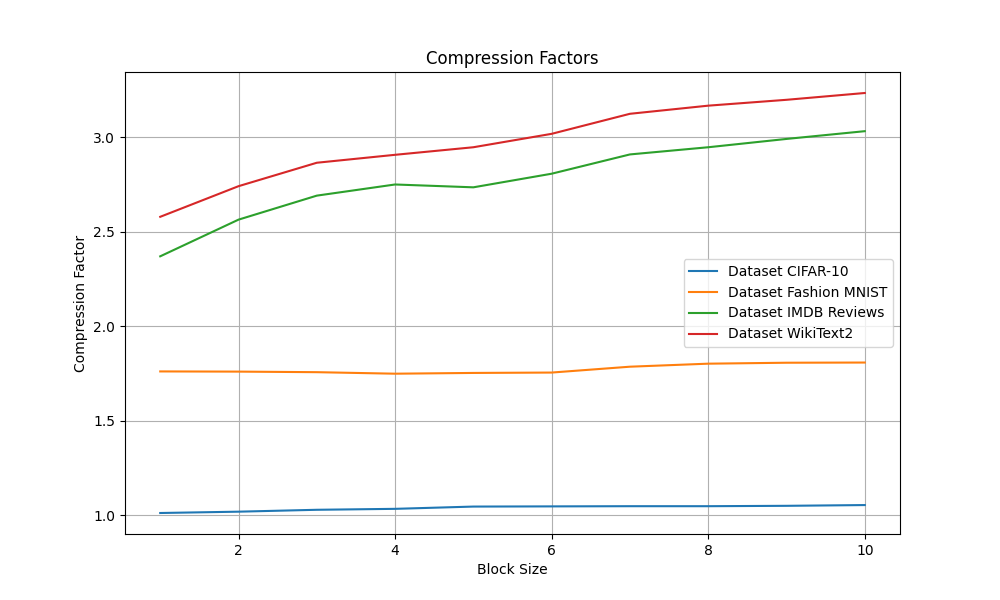
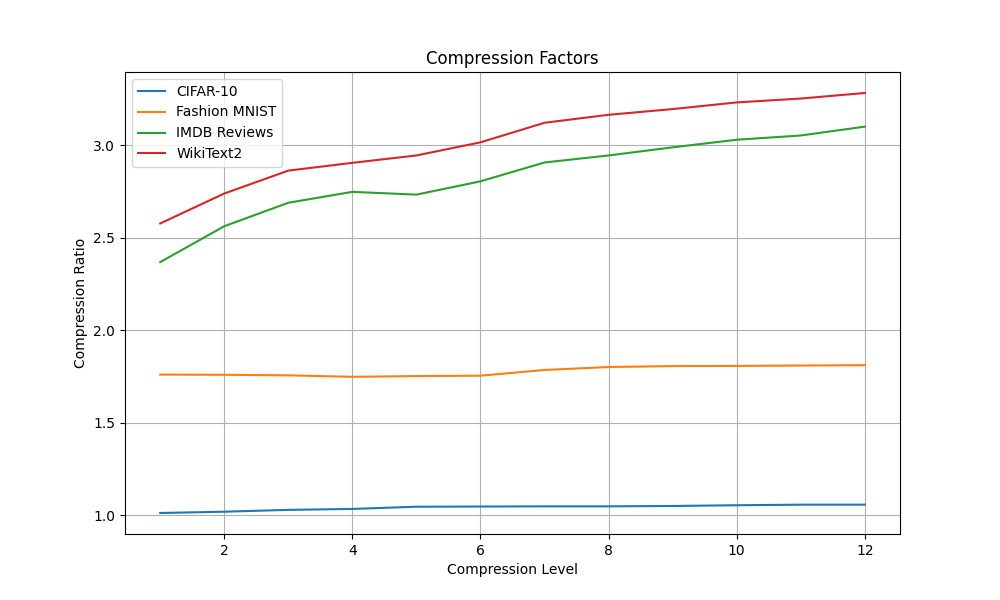
Added all basic benchmarking files for Zstd project

diff --git a/Zstandard/lz4_benchmark.py b/Zstandard/lz4_benchmark.py
@@ -1,0 +1,142 @@
+import subprocess
+import matplotlib.pyplot as plt
+import numpy as np
+import os
+import time
+
+def get_lz4_speed(file, level, mode):
+    """
+    Measure the compression or decompression speed of lz4.
+    Args:
+        file (str): File to compress or decompress.
+        level (int): Compression level (1-9 for simplicity; lz4 uses different presets).
+        mode (str): 'compress' or 'decompress'.
+
+    Returns:
+        float: Speed in MB/s.
+    """
+    start_time = time.time()
+    if mode == "compress":
+        compressed_file = file + ".lz4"
+        cmd = f"lz4 -{level} -f {file} {compressed_file}"  # Added '-f' for force overwrite
+    elif mode == "decompress":
+        compressed_file = file + ".lz4"
+        decompressed_file = file + ".out"
+        cmd = f"lz4 -d -f {compressed_file} {decompressed_file}"  # Added '-f' for force overwrite
+    else:
+        raise ValueError("Invalid mode")
+
+    # Run the command
+    subprocess.run(cmd, shell=True, check=True)
+
+    # Calculate elapsed time
+    elapsed_time = time.time() - start_time
+
+    # Determine file size
+    if mode == "compress":
+        file_size = os.path.getsize(file)
+    elif mode == "decompress":
+        file_size = os.path.getsize(compressed_file)
+
+    # Clean up temporary files
+    if mode == "decompress":
+        os.remove(decompressed_file)
+
+    # Return speed in MB/s
+    return file_size / (1024 ** 2) / elapsed_time
+
+def get_compression_factor(original_file, compressed_file):
+    """
+    Calculate compression factor (original size / compressed size).
+    Args:
+        original_file (str): Original file path.
+        compressed_file (str): Compressed file path.
+
+    Returns:
+        float: Compression factor.
+    """
+    original_size = os.path.getsize(original_file)
+    compressed_size = os.path.getsize(compressed_file)
+    return original_size / compressed_size
+
+# Define directories and test files
+cifar_dir = "ml_data/cifar10_train.bin"
+fashion_dir = "ml_data/fashion_mnist_train.bin"
+imdb_dir = "ml_data/imdb_raw.txt"
+wikitext_dir = "ml_data/wikitext2_raw.txt"
+
+dataSets = [cifar_dir, fashion_dir, imdb_dir, wikitext_dir]
+dataSetNames = ["CIFAR-10", "Fashion MNIST", "IMDB Reviews", "WikiText2"]
+
+num_tests = 6
+start_i = 1
+end_i = 9  # Simplified compression levels for lz4
+
+if __name__ == "__main__":
+    all_compFactors = []
+    all_compSpeed = []
+    all_decompSpeed = []
+
+    for dataSet in dataSets:
+        compFactors = np.zeros(end_i - start_i + 1)
+        compSpeed = np.zeros(end_i - start_i + 1)
+        decompSpeed = np.zeros(end_i - start_i + 1)
+
+        for level in range(start_i, end_i + 1):
+            for t in range(num_tests):
+                # Measure compression speed
+                comp_speed = get_lz4_speed(dataSet, level, "compress")
+                compSpeed[level - start_i] += comp_speed / num_tests
+
+                # Measure decompression speed
+                decomp_speed = get_lz4_speed(dataSet, level, "decompress")
+                decompSpeed[level - start_i] += decomp_speed / num_tests
+
+                # Measure compression factor
+                lz4_file = dataSet + ".lz4"
+                comp_factor = get_compression_factor(dataSet, lz4_file)
+                compFactors[level - start_i] += comp_factor / num_tests
+
+            # Clean up compressed file after all tests
+            os.remove(dataSet + ".lz4")
+
+        all_compFactors.append(compFactors)
+        all_compSpeed.append(compSpeed)
+        all_decompSpeed.append(decompSpeed)
+
+    x_range = range(start_i, end_i + 1)
+
+    # Compression Factors Graph
+    plt.figure(figsize=(10, 6))
+    for i, compFactors in enumerate(all_compFactors):
+        plt.plot(x_range, compFactors, label=dataSetNames[i])
+    plt.title("Compression Factors (lz4)")
+    plt.xlabel("Compression Level")
+    plt.ylabel("Compression Ratio")
+    plt.legend()
+    plt.grid(True)
+    plt.savefig("lz4_compression_factors.png")
+
+    # Compression Speed Graph
+    plt.figure(figsize=(10, 6))
+    for i, compSpeed in enumerate(all_compSpeed):
+        plt.plot(x_range, compSpeed, label=dataSetNames[i])
+    plt.title("Compression Speed (lz4)")
+    plt.xlabel("Compression Level")
+    plt.ylabel("Speed (MB/s)")
+    plt.legend()
+    plt.grid(True)
+    plt.savefig("lz4_compression_speed.png")
+
+    # Decompression Speed Graph
+    plt.figure(figsize=(10, 6))
+    for i, decompSpeed in enumerate(all_decompSpeed):
+        plt.plot(x_range, decompSpeed, label=dataSetNames[i])
+    plt.title("Decompression Speed (lz4)")
+    plt.xlabel("Compression Level")
+    plt.ylabel("Speed (MB/s)")
+    plt.legend()
+    plt.grid(True)
+    plt.savefig("lz4_decompression_speed.png")
+
+    print("Graphs saved as PNG files.")

diff --git a/Zstandard/gzip_benchmark.py b/Zstandard/gzip_benchmark.py
@@ -1,0 +1,142 @@
+import subprocess
+import matplotlib.pyplot as plt
+import numpy as np
+import os
+import time
+
+def get_gzip_speed(file, level, mode):
+    """
+    Measure the compression or decompression speed of gzip.
+    Args:
+        file (str): File to compress or decompress.
+        level (int): Compression level (1-9).
+        mode (str): 'compress' or 'decompress'.
+
+    Returns:
+        float: Speed in MB/s.
+    """
+    start_time = time.time()
+    if mode == "compress":
+        compressed_file = file + ".gz"
+        cmd = f"gzip -{level} -c {file} > {compressed_file}"
+    elif mode == "decompress":
+        compressed_file = file + ".gz"
+        decompressed_file = file + ".out"
+        cmd = f"gzip -d -c {compressed_file} > {decompressed_file}"
+    else:
+        raise ValueError("Invalid mode")
+
+    # Run the command
+    subprocess.run(cmd, shell=True, check=True)
+
+    # Calculate elapsed time
+    elapsed_time = time.time() - start_time
+
+    # Determine file size
+    if mode == "compress":
+        file_size = os.path.getsize(file)
+    elif mode == "decompress":
+        file_size = os.path.getsize(compressed_file)
+
+    # Clean up temporary files
+    if mode == "decompress":
+        os.remove(decompressed_file)
+
+    # Return speed in MB/s
+    return file_size / (1024 ** 2) / elapsed_time
+
+def get_compression_factor(original_file, compressed_file):
+    """
+    Calculate compression factor (original size / compressed size).
+    Args:
+        original_file (str): Original file path.
+        compressed_file (str): Compressed file path.
+
+    Returns:
+        float: Compression factor.
+    """
+    original_size = os.path.getsize(original_file)
+    compressed_size = os.path.getsize(compressed_file)
+    return original_size / compressed_size
+
+# Define directories and test files
+cifar_dir = "ml_data/cifar10_train.bin"
+fashion_dir = "ml_data/fashion_mnist_train.bin"
+imdb_dir = "ml_data/imdb_raw.txt"
+wikitext_dir = "ml_data/wikitext2_raw.txt"
+
+dataSets = [cifar_dir, fashion_dir, imdb_dir, wikitext_dir]
+dataSetNames = ["CIFAR-10", "Fashion MNIST", "IMDB Reviews", "WikiText2"]
+
+num_tests = 3
+start_i = 1
+end_i = 9  # gzip supports levels 1 to 9
+
+if __name__ == "__main__":
+    all_compFactors = []
+    all_compSpeed = []
+    all_decompSpeed = []
+
+    for dataSet in dataSets:
+        compFactors = np.zeros(end_i - start_i + 1)
+        compSpeed = np.zeros(end_i - start_i + 1)
+        decompSpeed = np.zeros(end_i - start_i + 1)
+
+        for level in range(start_i, end_i + 1):
+            for t in range(num_tests):
+                # Measure compression speed
+                comp_speed = get_gzip_speed(dataSet, level, "compress")
+                compSpeed[level - start_i] += comp_speed / num_tests
+
+                # Measure decompression speed
+                decomp_speed = get_gzip_speed(dataSet, level, "decompress")
+                decompSpeed[level - start_i] += decomp_speed / num_tests
+
+                # Measure compression factor
+                gzip_file = dataSet + ".gz"
+                comp_factor = get_compression_factor(dataSet, gzip_file)
+                compFactors[level - start_i] += comp_factor / num_tests
+
+                # Clean up compressed file after all tests
+            os.remove(dataSet + ".gz")
+
+        all_compFactors.append(compFactors)
+        all_compSpeed.append(compSpeed)
+        all_decompSpeed.append(decompSpeed)
+
+    x_range = range(start_i, end_i + 1)
+
+    # Compression Factors Graph
+    plt.figure(figsize=(10, 6))
+    for i, compFactors in enumerate(all_compFactors):
+        plt.plot(x_range, compFactors, label=dataSetNames[i])
+    plt.title("Compression Factors (gzip)")
+    plt.xlabel("Compression Level")
+    plt.ylabel("Compression Ratio")
+    plt.legend()
+    plt.grid(True)
+    plt.savefig("gzip_compression_factors.png")
+
+    # Compression Speed Graph
+    plt.figure(figsize=(10, 6))
+    for i, compSpeed in enumerate(all_compSpeed):
+        plt.plot(x_range, compSpeed, label=dataSetNames[i])
+    plt.title("Compression Speed (gzip)")
+    plt.xlabel("Compression Level")
+    plt.ylabel("Speed (MB/s)")
+    plt.legend()
+    plt.grid(True)
+    plt.savefig("gzip_compression_speed.png")
+
+    # Decompression Speed Graph
+    plt.figure(figsize=(10, 6))
+    for i, decompSpeed in enumerate(all_decompSpeed):
+        plt.plot(x_range, decompSpeed, label=dataSetNames[i])
+    plt.title("Decompression Speed (gzip)")
+    plt.xlabel("Compression Level")
+    plt.ylabel("Speed (MB/s)")
+    plt.legend()
+    plt.grid(True)
+    plt.savefig("gzip_decompression_speed.png")
+
+    print("Graphs saved as PNG files.")

diff --git a/Zstandard/Zstd_benchmark.py b/Zstandard/Zstd_benchmark.py
@@ -54,9 +54,9 @@ wikitext_dir = "ml_data/wikitext2_raw.txt"
 dataSets = [cifar_dir, fashion_dir, imdb_dir, wikitext_dir]
 dataSetNames = ["CIFAR-10", "Fashion MNIST", "IMDB Reviews", "WikiText2"]
 
-num_tests = 1
+num_tests = 3
 start_i = 1
-end_i = 19
+end_i = 12
 
 start = "-b" + str(start_i)
 end = "-e" + str(end_i)
@@ -92,8 +92,8 @@ if __name__ == "__main__":
     for i, compFactors in enumerate(all_compFactors):
         plt.plot(x_range, compFactors, label=dataSetNames[i])
     plt.title("Compression Factors")
-    plt.xlabel("Block Size")
-    plt.ylabel("Compression Level")
+    plt.xlabel("Compression Level")
+    plt.ylabel("Compression Ratio")
     plt.legend()
     plt.grid(True)
     plt.savefig("compression_factors.png")

diff --git a/Zstandard/README.md b/Zstandard/README.md
@@ -46,6 +46,24 @@ During my explanation, I omitted many symbols and specifiers for reader clarity.
 
 An in-depth explanation of the algorithm can be found [here](https://github.com/facebook/zstd/blob/dev/doc/zstd_compression_format.md#fse).
 
+## Dataset Preparation Script
+
+This script uses the Hugging Face `datasets` library to download and process several machine learning datasets for various NLP and computer vision tasks.
+
+### Data Sets
+- IMDB Dataset: A collection of movie reviews designed for sentiment analysis tasks.
+- WikiText-2 Dataset: A collection of Wikipedia articles frequently used for language modeling.
+- CIFAR-10 Dataset: A dataset of 60,000 32x32 color images categorized into 10 classes, commonly used for image classification.
+- Fashion-MNIST Dataset: A dataset of 28x28 grayscale images of clothing items, used for image classification tasks.
+
+### Execution:
+```
+python dataset_preparation.py
+```
+
+## Testing Results
+
+
 ## Experiments
 - Trained vs non-trained
 - Comparison to other algorithms
@@ -53,7 +71,7 @@ An in-depth explanation of the algorithm can be found [here](https://github.com/
 - stream options
 - threads
 
-# Resources:
+## Resources:
 https://fuchsia.googlesource.com/third_party/zstd/+/refs/tags/v1.3.7/programs/README.md
 https://raw.githack.com/facebook/zstd/release/doc/zstd_manual.html
 https://github.com/facebook/zstd/blob/dev/programs/zstd.1.md
